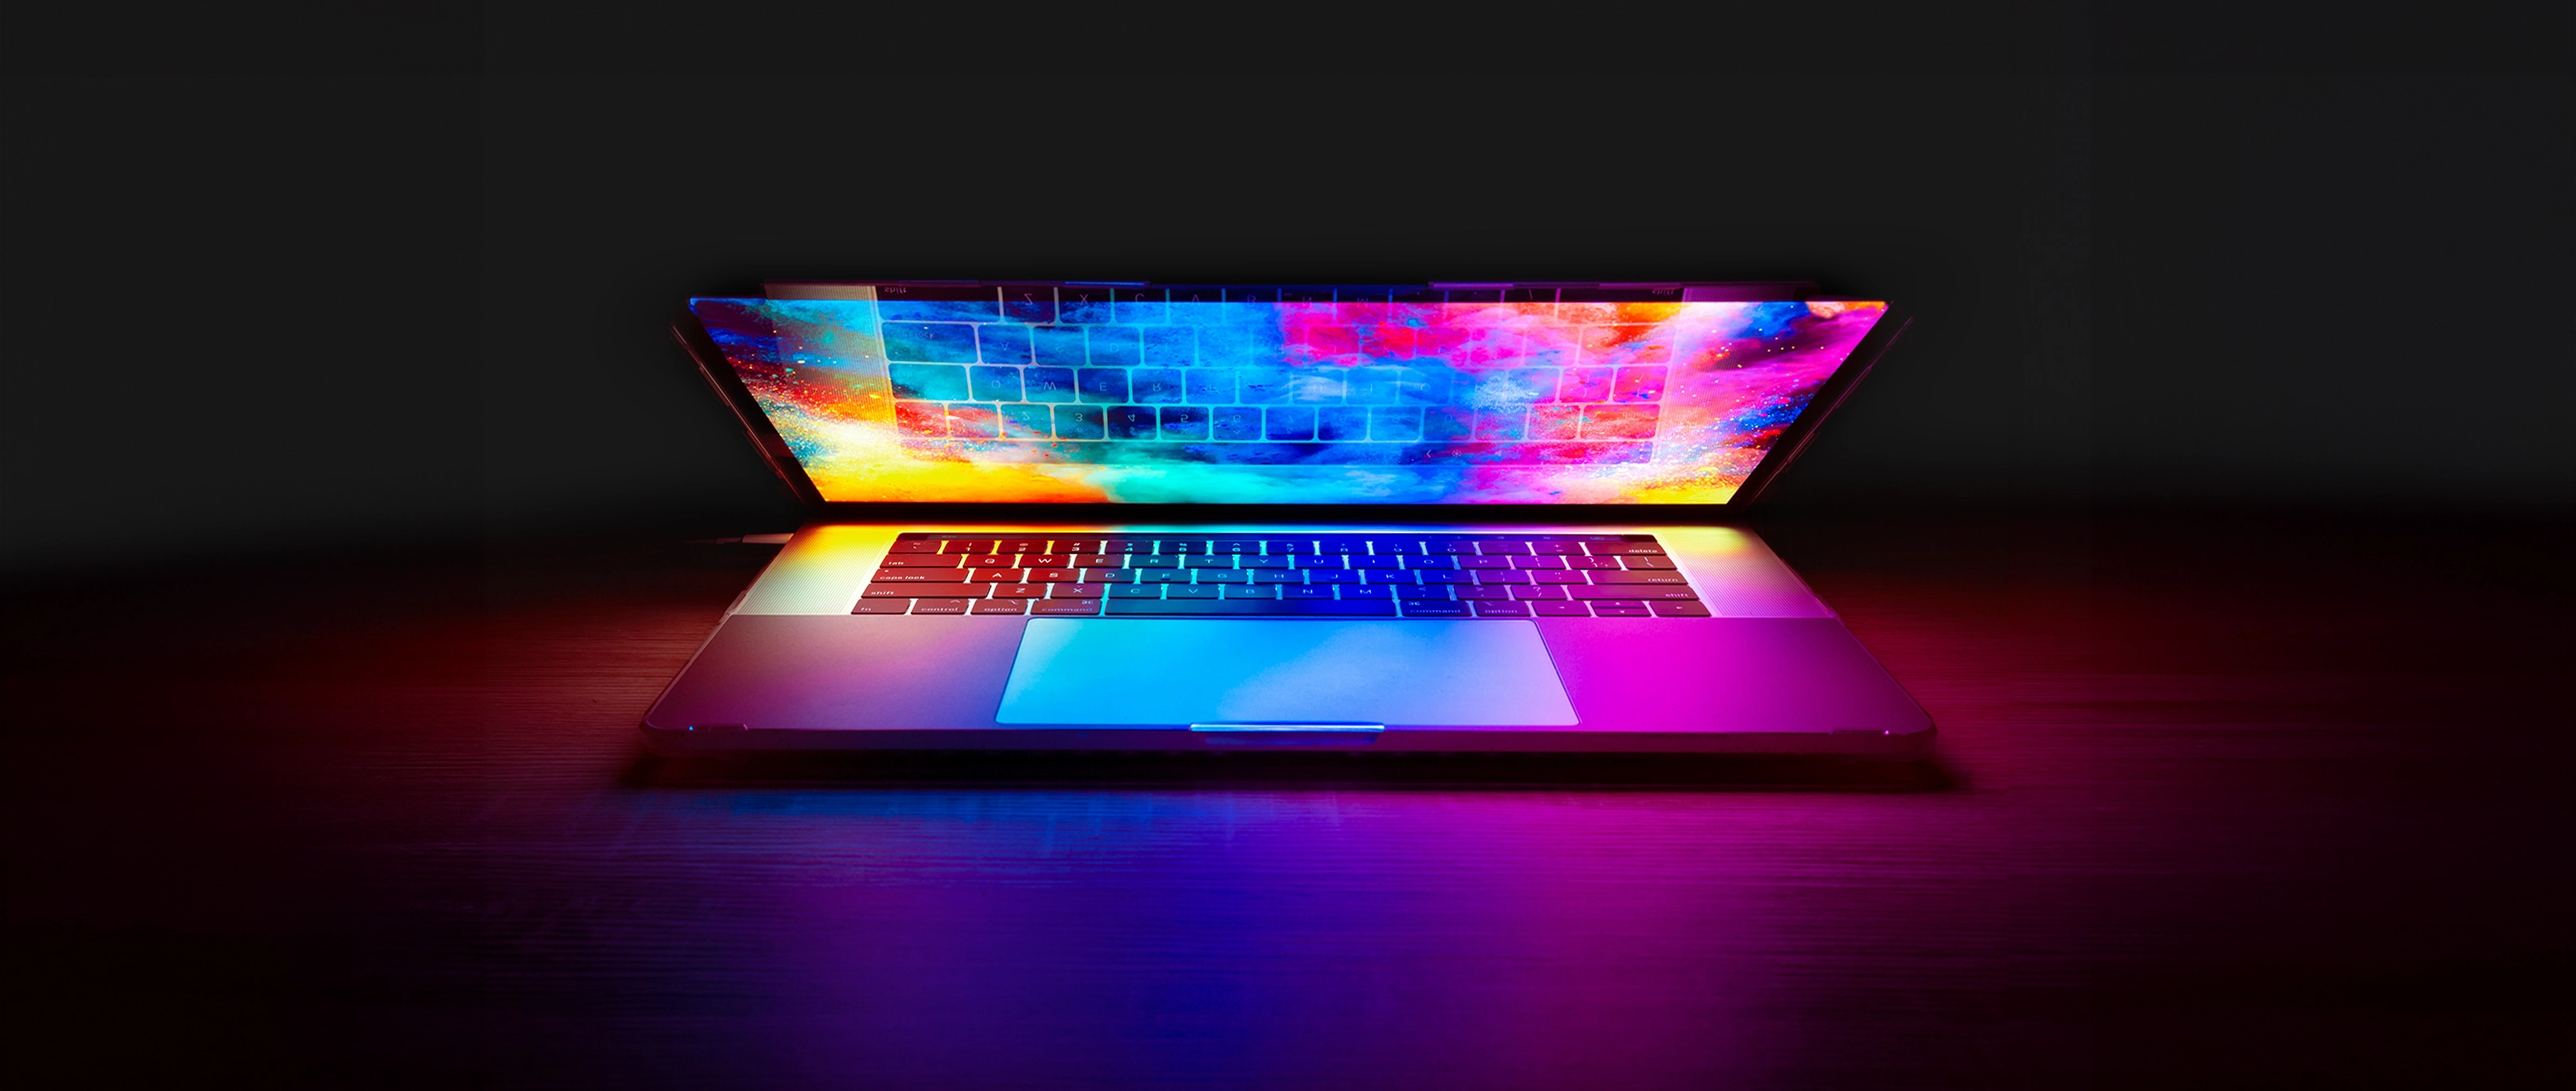
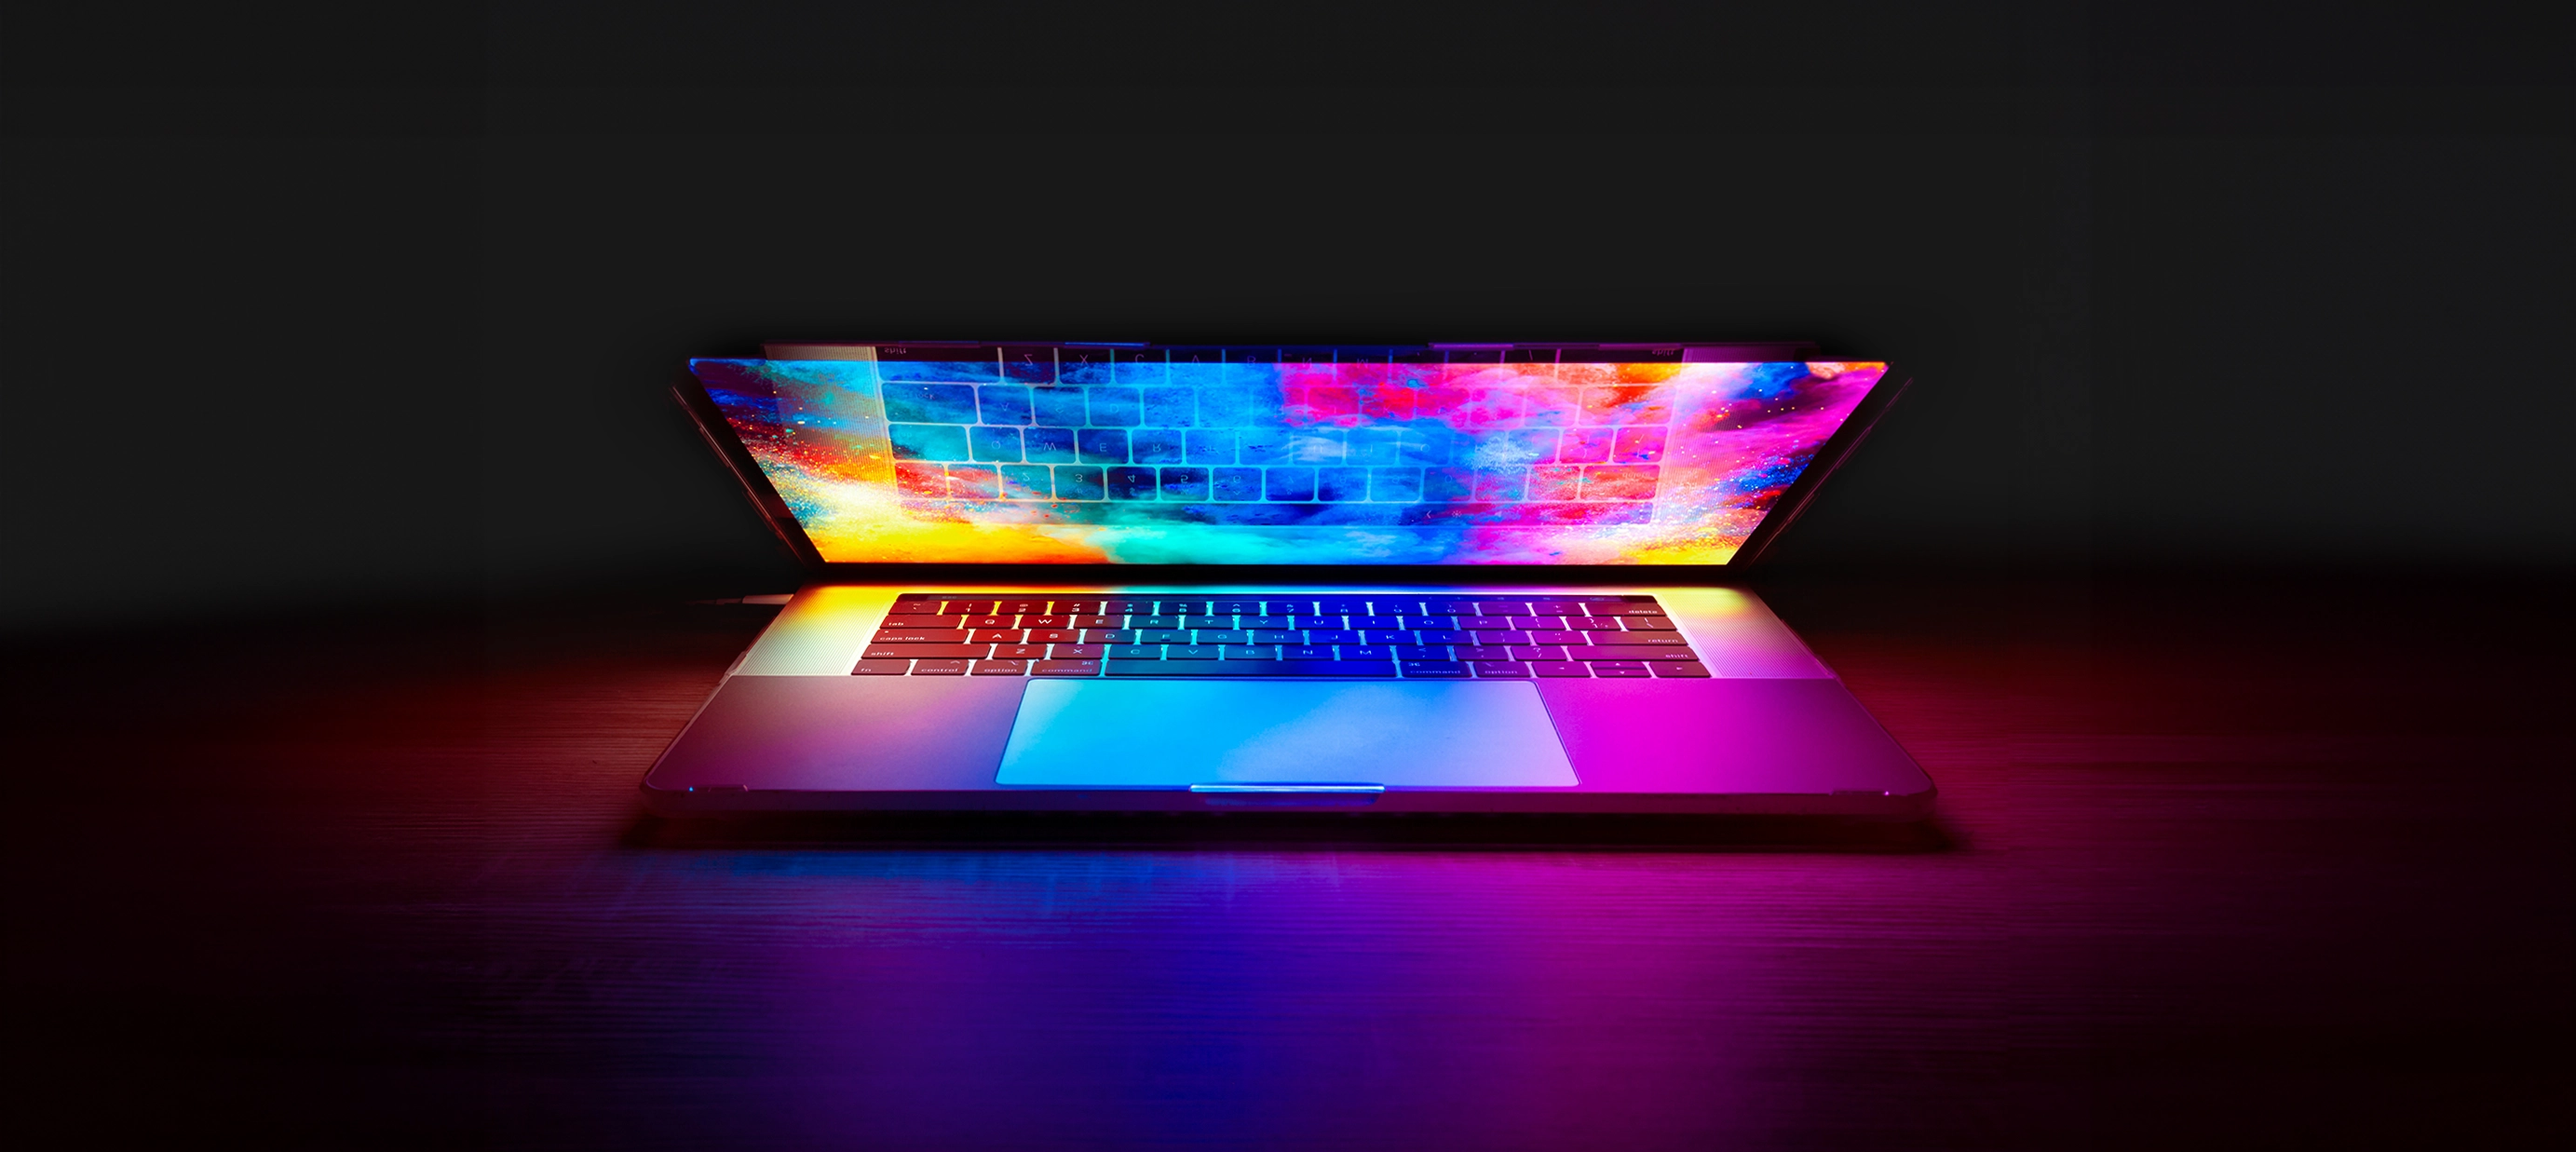
improve theme and transitions

Changed region(s): [[0.1866, 0.2457, 0.7773, 0.8294]]

diff --git a/src/styles/theme/colors.scss b/src/styles/theme/colors.scss
@@ -1,27 +1,19 @@
 [data-theme="light"] {
-  --background: #f2f2f2;
   --mainColor: #e710ab;
   --secondColor: #2a95ed;
   --gradient: linear-gradient(#e710ab, #2a95ed);
   --text: #3d3d3d;
-  --heroBackground: linear-gradient(
-    0deg,
-    rgba(242, 242, 242, 1) 0%,
-    rgba(242, 242, 242, 0.7) 25%,
-    rgba(242, 242, 242, 0.7) 35%
-  );
+  --background: #f2f2f2;
+  --headerBackground: rgba(177, 177, 177, 0.8);
+  --heroBackground: rgba(242, 242, 242, 0.7);
 }
 
 [data-theme="dark"] {
-  --background: #191919;
   --mainColor: #e710ab;
   --secondColor: #2a95ed;
   --gradient: linear-gradient(#e710ab, #2a95ed);
-  --text: #d2d2d2;
-  --heroBackground: linear-gradient(
-    0deg,
-    rgba(25, 25, 25, 1) 0%,
-    rgba(25, 25, 25, 0.7) 10%,
-    rgba(25, 25, 25, 0.7) 25%
-  );
+  --text: #d8d8d8;
+  --background: #191919;
+  --headerBackground: rgba(25, 25, 25, 0.7);
+  --heroBackground: rgba(25, 25, 25, 0.7);
 }

diff --git a/src/components/Header.tsx b/src/components/Header.tsx
@@ -3,13 +3,10 @@ import styled from "styled-components";
 const Header = () => {
   const toggleTheme = () => {
     const theme = document.body.getAttribute("data-theme");
-    const toggleThemeBtn = document.getElementById("toggleThemeBtn");
     if (theme === "dark") {
       document.body.setAttribute("data-theme", "light");
-      toggleThemeBtn.textContent = "Dark Mode";
     } else {
       document.body.setAttribute("data-theme", "dark");
-      toggleThemeBtn.textContent = "Light Mode";
     }
   };
 
@@ -24,10 +21,14 @@ const Header = () => {
 
 const HeaderStyled = styled.header`
   width: 100%;
+  height: 50px;
   position: fixed;
   top: 0;
   left: 0;
   z-index: 1;
+
+  background: var(--headerBackground);
+  transition: background-color 250ms ease-in;
 `;
 
 export default Header;

diff --git a/src/pages/Home.tsx b/src/pages/Home.tsx
@@ -54,12 +54,12 @@ const HomeStyled = styled.main`
   }
 
   .dock {
-    padding: 2px 4px;
+    padding: 4px 6px;
     border-radius: 16px;
-    border: solid 2px rgb(148, 148, 148);
+    border: solid 1px rgb(148, 148, 148);
     background: linear-gradient(
-      rgba(255, 255, 255, 0.4),
-      rgba(255, 255, 255, 0.2)
+      rgba(79, 79, 79, 0.2),
+      rgba(255, 255, 255, 0.4)
     );
 
     ul {
@@ -67,12 +67,12 @@ const HomeStyled = styled.main`
       align-items: end;
       list-style: none;
 
-      @media screen and (max-width: 1024px) {
+      /* @media screen and (max-width: 1024px) {
         padding: 10px;
         display: grid;
         grid-template-columns: 1fr 1fr 1fr 1fr;
         grid-gap: 20px;
-      }
+      } */
     }
   }
 `;

diff --git a/src/components/HeroBanner.tsx b/src/components/HeroBanner.tsx
@@ -47,6 +47,9 @@ const HeroBannerStyled = styled.section`
       position: absolute;
       inset: 0;
       background: var(--heroBackground);
+      transition: background-color 300ms ease-in-out;
+      box-shadow: 0 -200px 50px -150px var(--background) inset;
+      transition: box-shadow 250ms ease-in-out;
     }
   }
 

diff --git a/src/styles/base/body.scss b/src/styles/base/body.scss
@@ -3,6 +3,8 @@ body {
   justify-content: center;
   background: var(--background);
   color: var(--text);
+
+  transition: all 250ms ease-in-out;
 }
 
 main {
